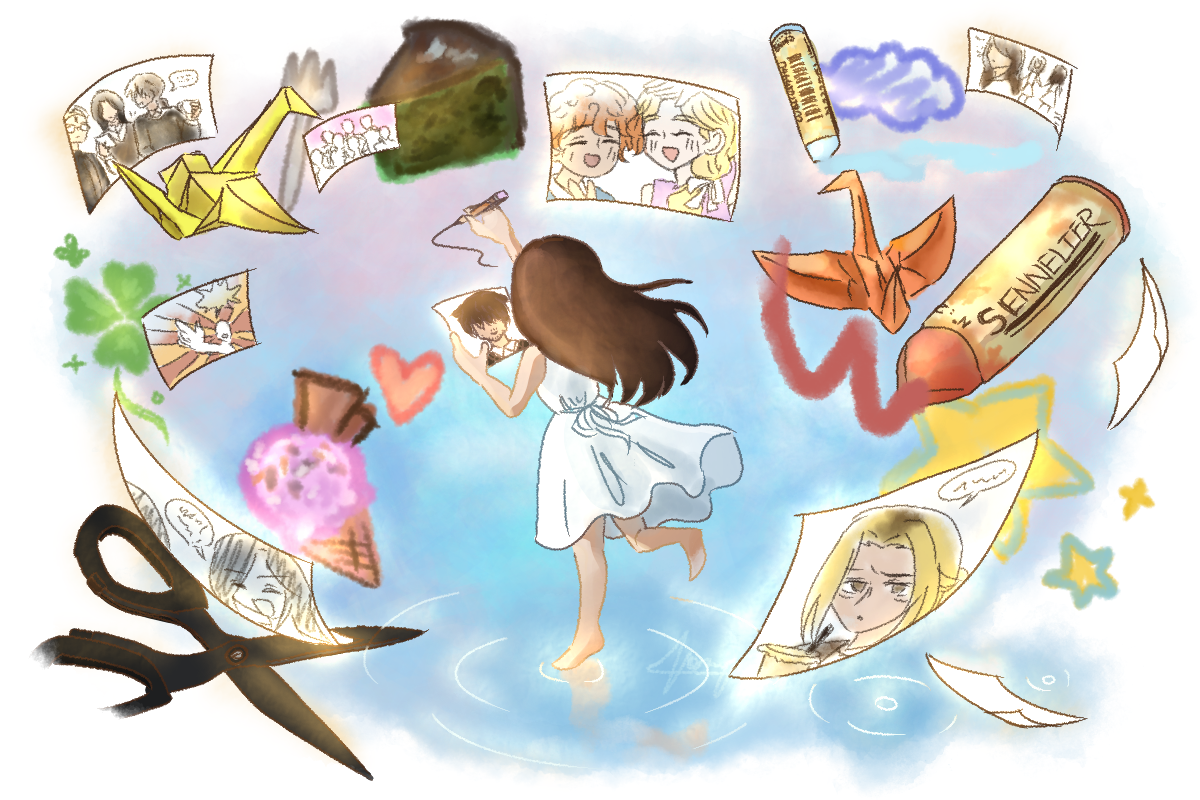
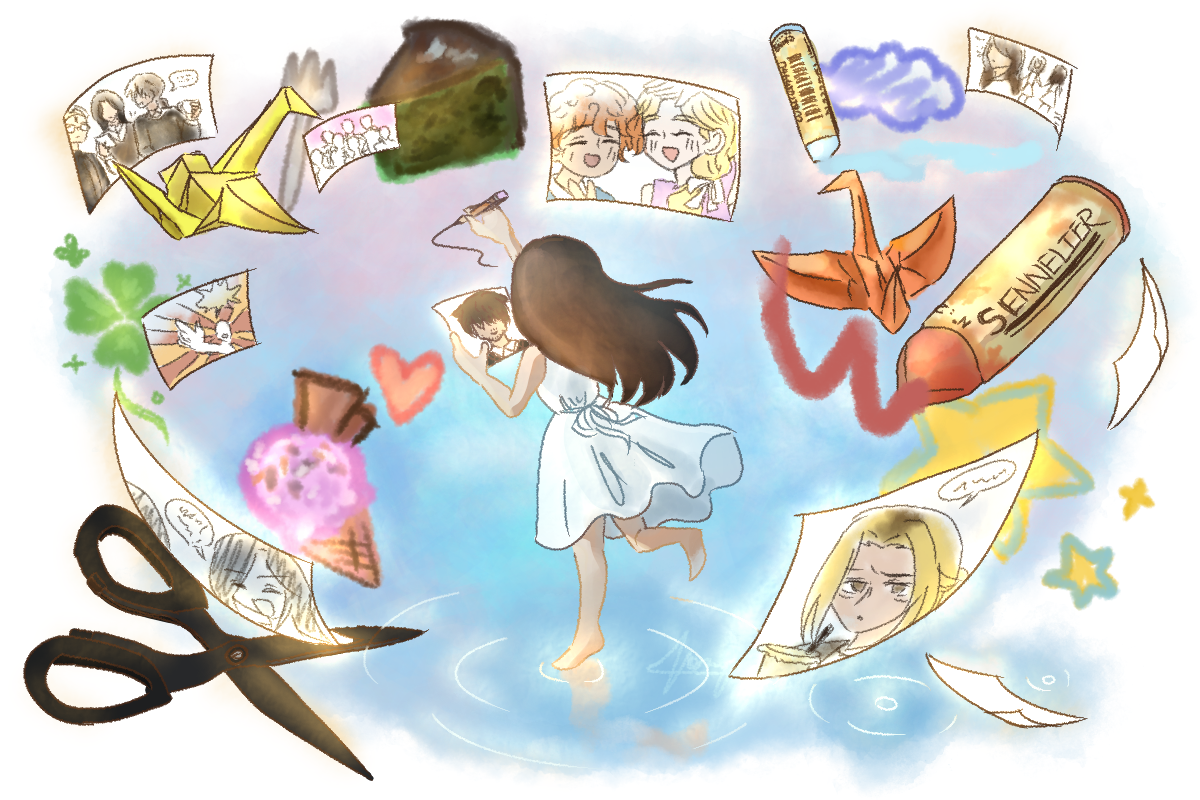
20261008圖片微調+漢堡選單顏色更變

Changed region(s): [[0.37, 0.2812, 0.5858, 0.4375], [0.0, 0.7812, 0.1233, 0.9062]]

diff --git a/style.css b/style.css
@@ -192,8 +192,8 @@ h3 {
   /* 1. 把漢堡按鈕呼叫出來，放在左上角 */
 .menu-btn {
     display: block;
-    color: white;
-    font-size: 30px;
+    color: rgb(39, 37, 36);
+    font-size: 40px;
     cursor: pointer;
     position: absolute;
     font-size: 50px;
